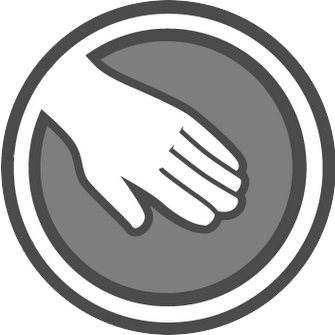
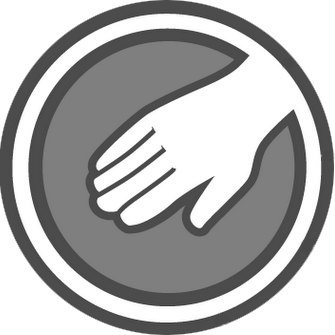
Fixed images so that they face each other during a match. Added a modal that starts when site loads. It is used to configure the match.

diff --git a/index.html b/index.html
@@ -7,26 +7,64 @@
     <title>Rock, Paper, Scissors</title>
     <link rel="stylesheet" type="text/css" href="./css/main.css" />
     <link rel="stylesheet" type="text/css" href="./css/style.css" />
+    <link
+      rel="stylesheet"
+      href="https://maxcdn.bootstrapcdn.com/font-awesome/4.7.0/css/font-awesome.min.css"
+    />
+    <link
+      rel="stylesheet"
+      href="https://maxcdn.bootstrapcdn.com/bootstrap/3.3.7/css/bootstrap.min.css"
+      integrity="sha384-BVYiiSIFeK1dGmJRAkycuHAHRg32OmUcww7on3RYdg4Va+PmSTsz/K68vbdEjh4u"
+      crossorigin="anonymous"
+    />
+    <script src="https://ajax.googleapis.com/ajax/libs/jquery/1.12.4/jquery.min.js"></script>
+    <script src="https://maxcdn.bootstrapcdn.com/bootstrap/3.3.7/js/bootstrap.min.js"></script>
     <script type="module" src="./js/index.js"></script>
   </head>
 
   <body class="bg-slate-700">
     <header>
-      <h1 class="flex justify-center m-8 text-5xl">ROCK, PAPER, SCISSORS</h1>
+      <h1 class="flex justify-center m-8 text-black text-5xl">ROCK, PAPER, SCISSORS</h1>
     </header>
-    <div class="main-section">
-      <div class="column">
-        <h1 id="yourScore" class="text-2xl my-3">Your Score: 0</h1>
-        <img id="yourChoice" />
+    <div id="gameView">
+      <div class="main-section p-8">
+        <div class="column">
+          <h1 id="yourScore" class="text-4xl my-3">Your Score: 0</h1>
+          <img id="yourChoice" />
+        </div>
+        <div class="column">
+          <h1 id="opponentScore" class="text-4xl my-3">Opponent's Score: 0</h1>
+          <img id="opponentChoice" />
+        </div>
       </div>
-      <div class="column">
-        <h1 id="opponentScore" class="text-2xl my-3">Opponent's Score: 0</h1>
-        <img id="opponentChoice" />
+      <div>
+        <div id="choices"></div>
       </div>
     </div>
-    <div>
-      <div id="choices"></div>
+    <a id='modalToggle' href="#gameSetupModal" data-toggle="modal"></a>
+    <div
+      class="modal"
+      id="gameSetupModal"
+      role="dialog"
+      aria-labelledby="myModalLabel"
+      aria-hidden="true"
+    >
+      <div class="modal-dialog">
+        <div class="modal-content">
+          <div class="m-header">
+            <button class="close" data-dismiss="modal">×</button>
+            <h2 class="myModalLabel mb-10">How many players?</h2>
+          </div>
+          <div class="setupChoices flex justify-center space-x-10 text-slate-900 text-3xl">
+              <button id='single-player' class="outline p-2">1 player</button>
+              <button id='two-player' class="outline p-2">2 players</button>
+            </div>
+                
+          </div>
+        </div>
+      </div>
     </div>
+
     <scirpt src="./js/index.js"></scirpt>
   </body>
 </html>

diff --git a/css/main.css b/css/main.css
@@ -522,12 +522,26 @@ video {
   margin-bottom: 0.75rem;
 }
 
+.mb-10 {
+  margin-bottom: 2.5rem;
+}
+
 .flex {
   display: flex;
 }
 
+.transform {
+  transform: translate(var(--tw-translate-x), var(--tw-translate-y)) rotate(var(--tw-rotate)) skewX(var(--tw-skew-x)) skewY(var(--tw-skew-y)) scaleX(var(--tw-scale-x)) scaleY(var(--tw-scale-y));
+}
+
 .justify-center {
   justify-content: center;
+}
+
+.space-x-10 > :not([hidden]) ~ :not([hidden]) {
+  --tw-space-x-reverse: 0;
+  margin-right: calc(2.5rem * var(--tw-space-x-reverse));
+  margin-left: calc(2.5rem * calc(1 - var(--tw-space-x-reverse)));
 }
 
 .bg-slate-700 {
@@ -535,16 +549,17 @@ video {
   background-color: rgb(51 65 85 / var(--tw-bg-opacity));
 }
 
-.bg-\[url\(\'bg\.jpg\'\)\] {
-  background-image: url('bg.jpg');
+.p-8 {
+  padding: 2rem;
 }
 
-.bg-rps-bg {
-  background-image: url("/bg.jpg");;
+.p-2 {
+  padding: 0.5rem;
 }
 
-.bg-cover {
-  background-size: cover;
+.text-5xl {
+  font-size: 3rem;
+  line-height: 1;
 }
 
 .text-4xl {
@@ -552,12 +567,21 @@ video {
   line-height: 2.5rem;
 }
 
-.text-2xl {
-  font-size: 1.5rem;
-  line-height: 2rem;
+.text-3xl {
+  font-size: 1.875rem;
+  line-height: 2.25rem;
 }
 
-.text-5xl {
-  font-size: 3rem;
-  line-height: 1;
+.text-black {
+  --tw-text-opacity: 1;
+  color: rgb(0 0 0 / var(--tw-text-opacity));
+}
+
+.text-slate-900 {
+  --tw-text-opacity: 1;
+  color: rgb(15 23 42 / var(--tw-text-opacity));
+}
+
+.outline {
+  outline-style: solid;
 }

diff --git a/js/index.js b/js/index.js
@@ -5,7 +5,12 @@ let player2 = 0
 const choices = ['rock', 'paper', 'scissors']
 window.onload = start
 
+function initModal() {
+  document.querySelector('#modalToggle').click()
+}
+
 function start() {
+  initModal()
   for (let i = 0; i < 3; i++) {
     const choice = document.createElement('img')
     choice.id = choices[i]
@@ -17,7 +22,9 @@ function start() {
 
 function selectChoice() {
   yourChoice = this.id
-  document.getElementById('yourChoice').src = yourChoice + '.png'
+  let elem = document.getElementById('yourChoice')
+  elem.src = yourChoice + '.png'
+  elem.style.transform = 'scaleX(-1)'
 
   opponentChoice = choices[Math.floor(Math.random() * 3)]
   document.getElementById('opponentChoice').src = opponentChoice + '.png'
@@ -32,8 +39,6 @@ function selectWinner(yourChoice, opponentChoice) {
   let result = yourChoice + opponentChoice
   let winner = ''
   switch (result) {
-    // case 'rockrock', 'paperpaper', 'scissorsscissors':
-    //   winner = 'tie'
     case 'rockscissors':
     case 'paperrock':
     case 'scissorspaper':

diff --git a/css/style.css b/css/style.css
@@ -1,9 +1,11 @@
 #yourScore {
   text-align: center;
+  background-color: green;
 }
 
 #opponentScore {
   text-align: center;
+  background-color: red;
 }
 
 .main-section {
@@ -39,4 +41,51 @@
 #choices img {
   width: 150px;
   height: 150px;
+}
+
+/* Text alignment for body */
+body {
+  text-align: center;
+}
+#modalToggle {
+  display: none;
+}
+/* Styling modal */
+.modal:before {
+  content: '';
+  display: inline-block;
+  height: 100%;
+  vertical-align: middle;
+}
+.modal-dialog {
+  display: inline-block;
+  vertical-align: middle;
+}
+.modal .modal-content {
+  padding: 20px 20px 20px 20px;
+  -webkit-animation-name: modal-animation;
+  -webkit-animation-duration: 0.5s;
+  animation-name: modal-animation;
+  animation-duration: 0.5s;
+}
+@-webkit-keyframes modal-animation {
+  from {
+    top: -100px;
+    opacity: 0;
+  }
+  to {
+    top: 0px;
+    opacity: 1;
+  }
+}
+
+@keyframes modal-animation {
+  from {
+    top: -100px;
+    opacity: 0;
+  }
+  to {
+    top: 0px;
+    opacity: 1;
+  }
 }
